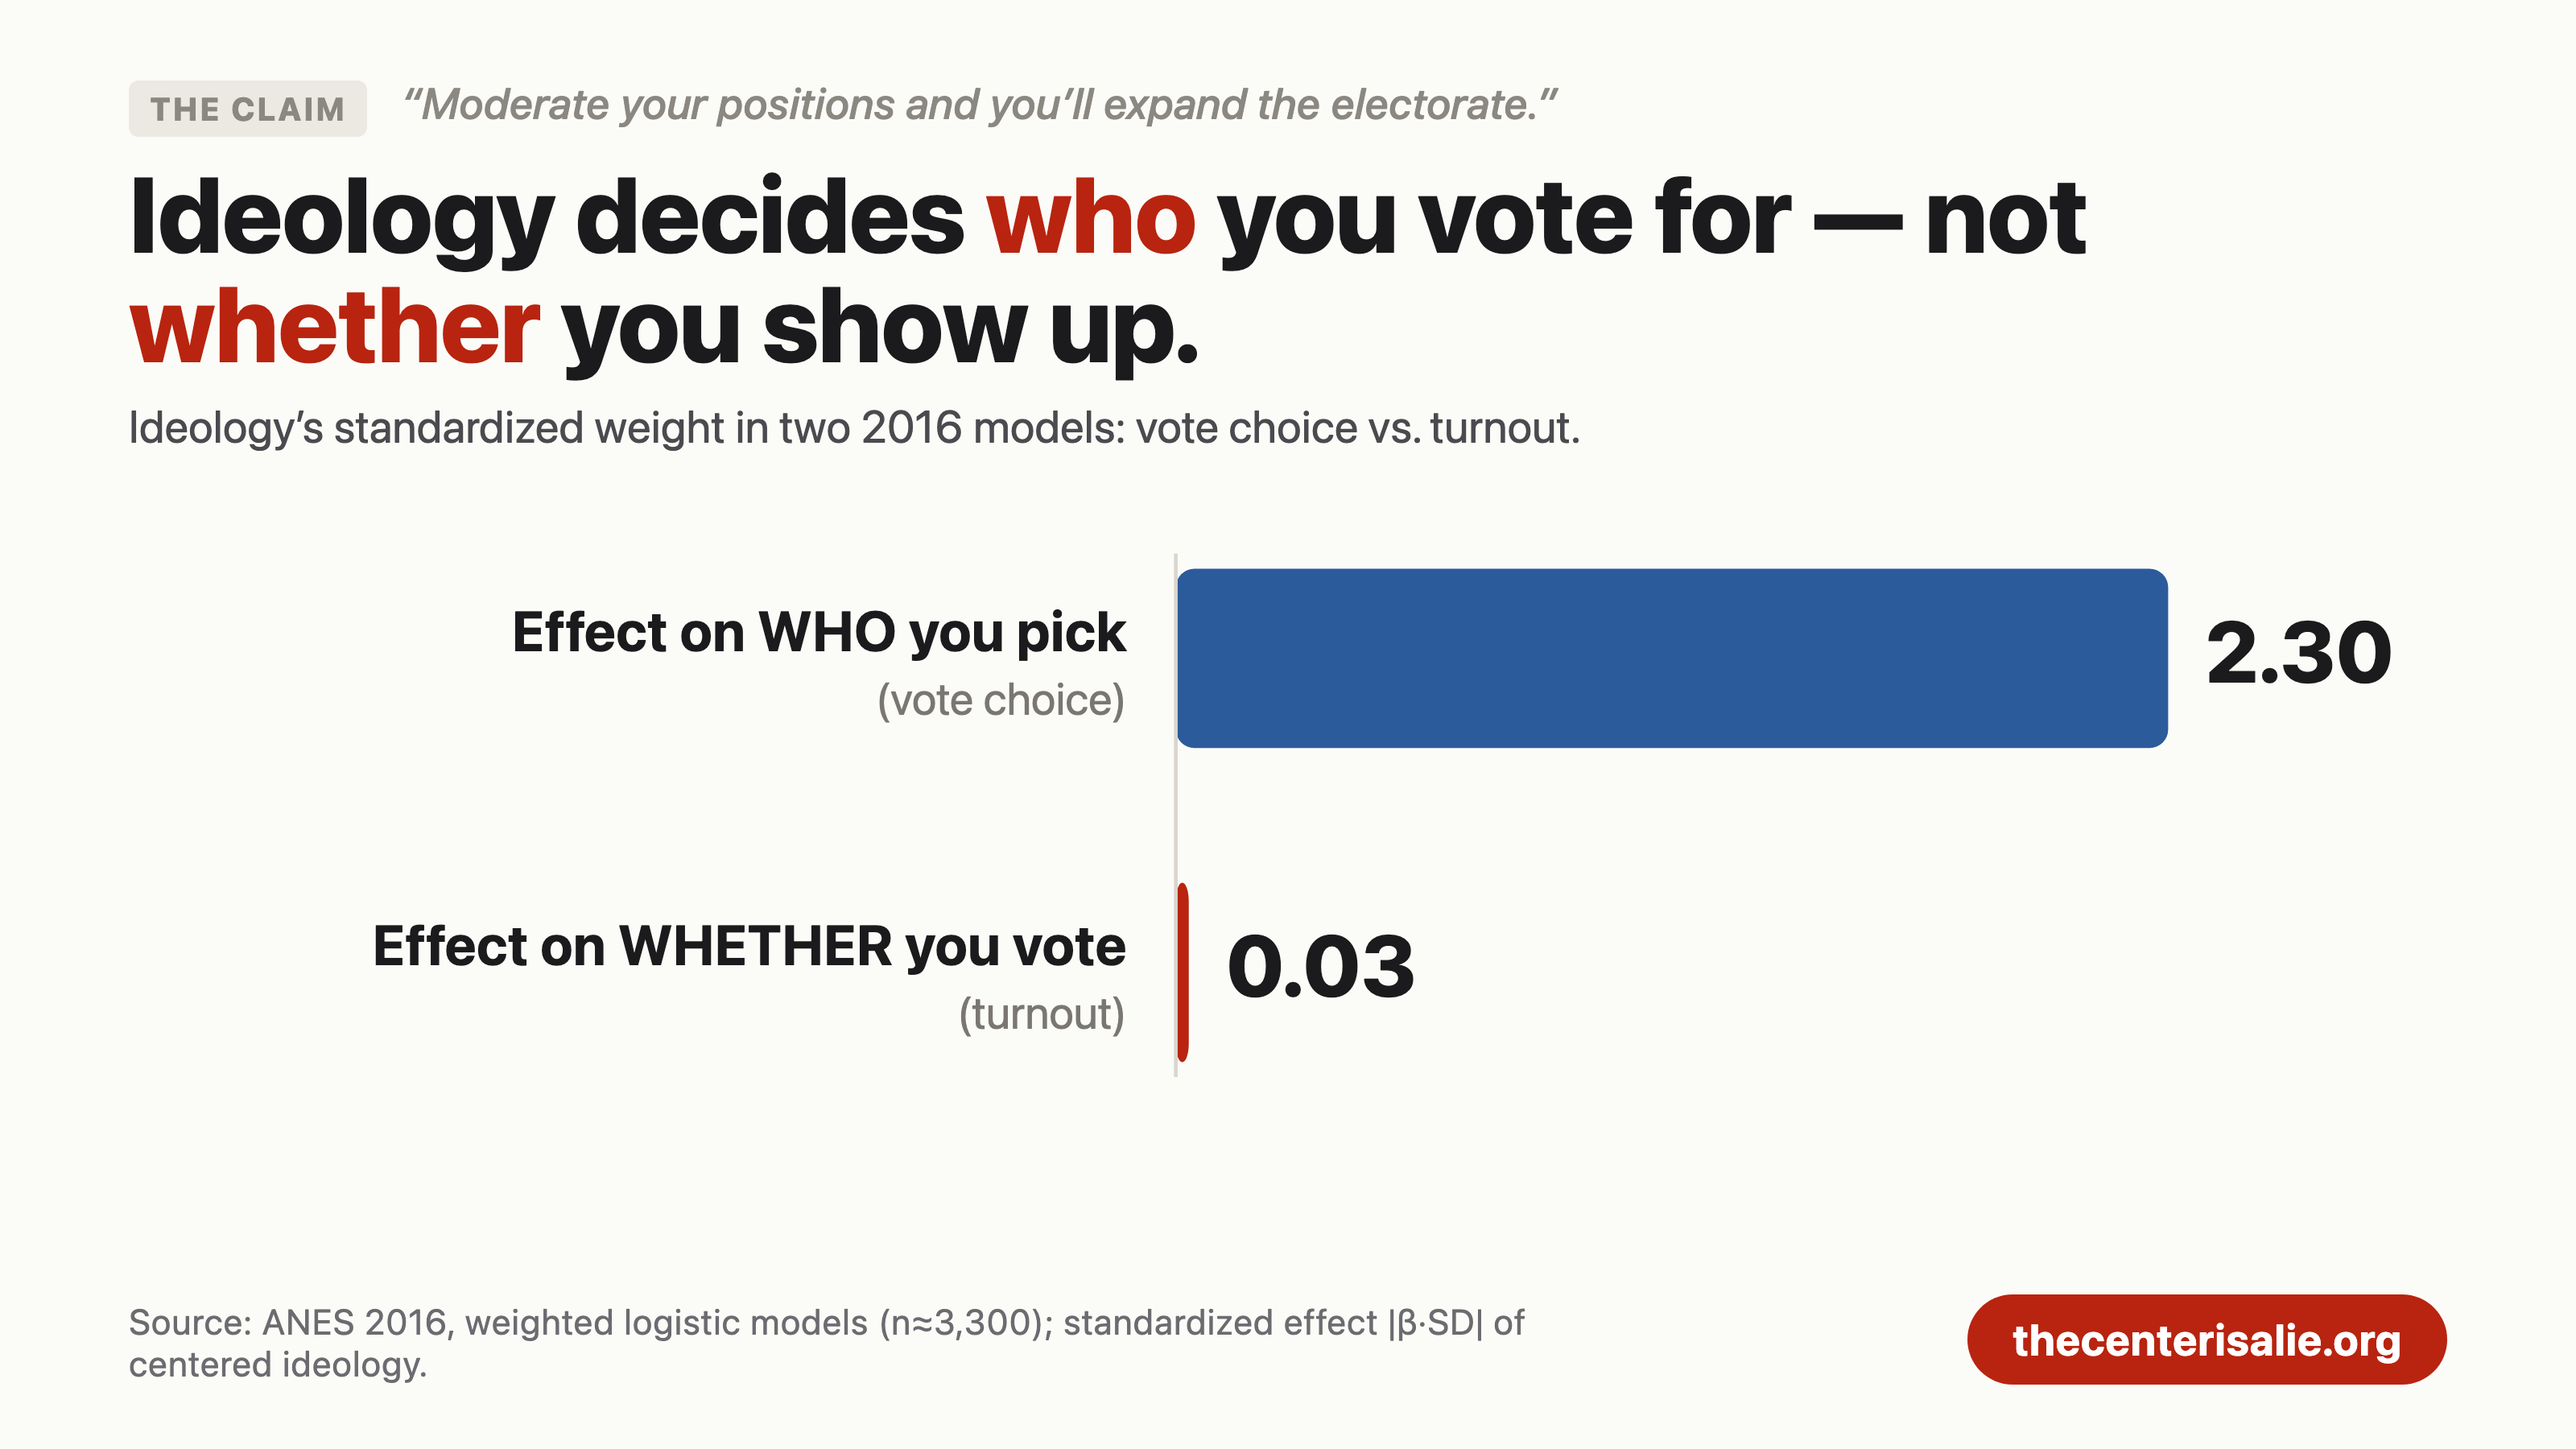
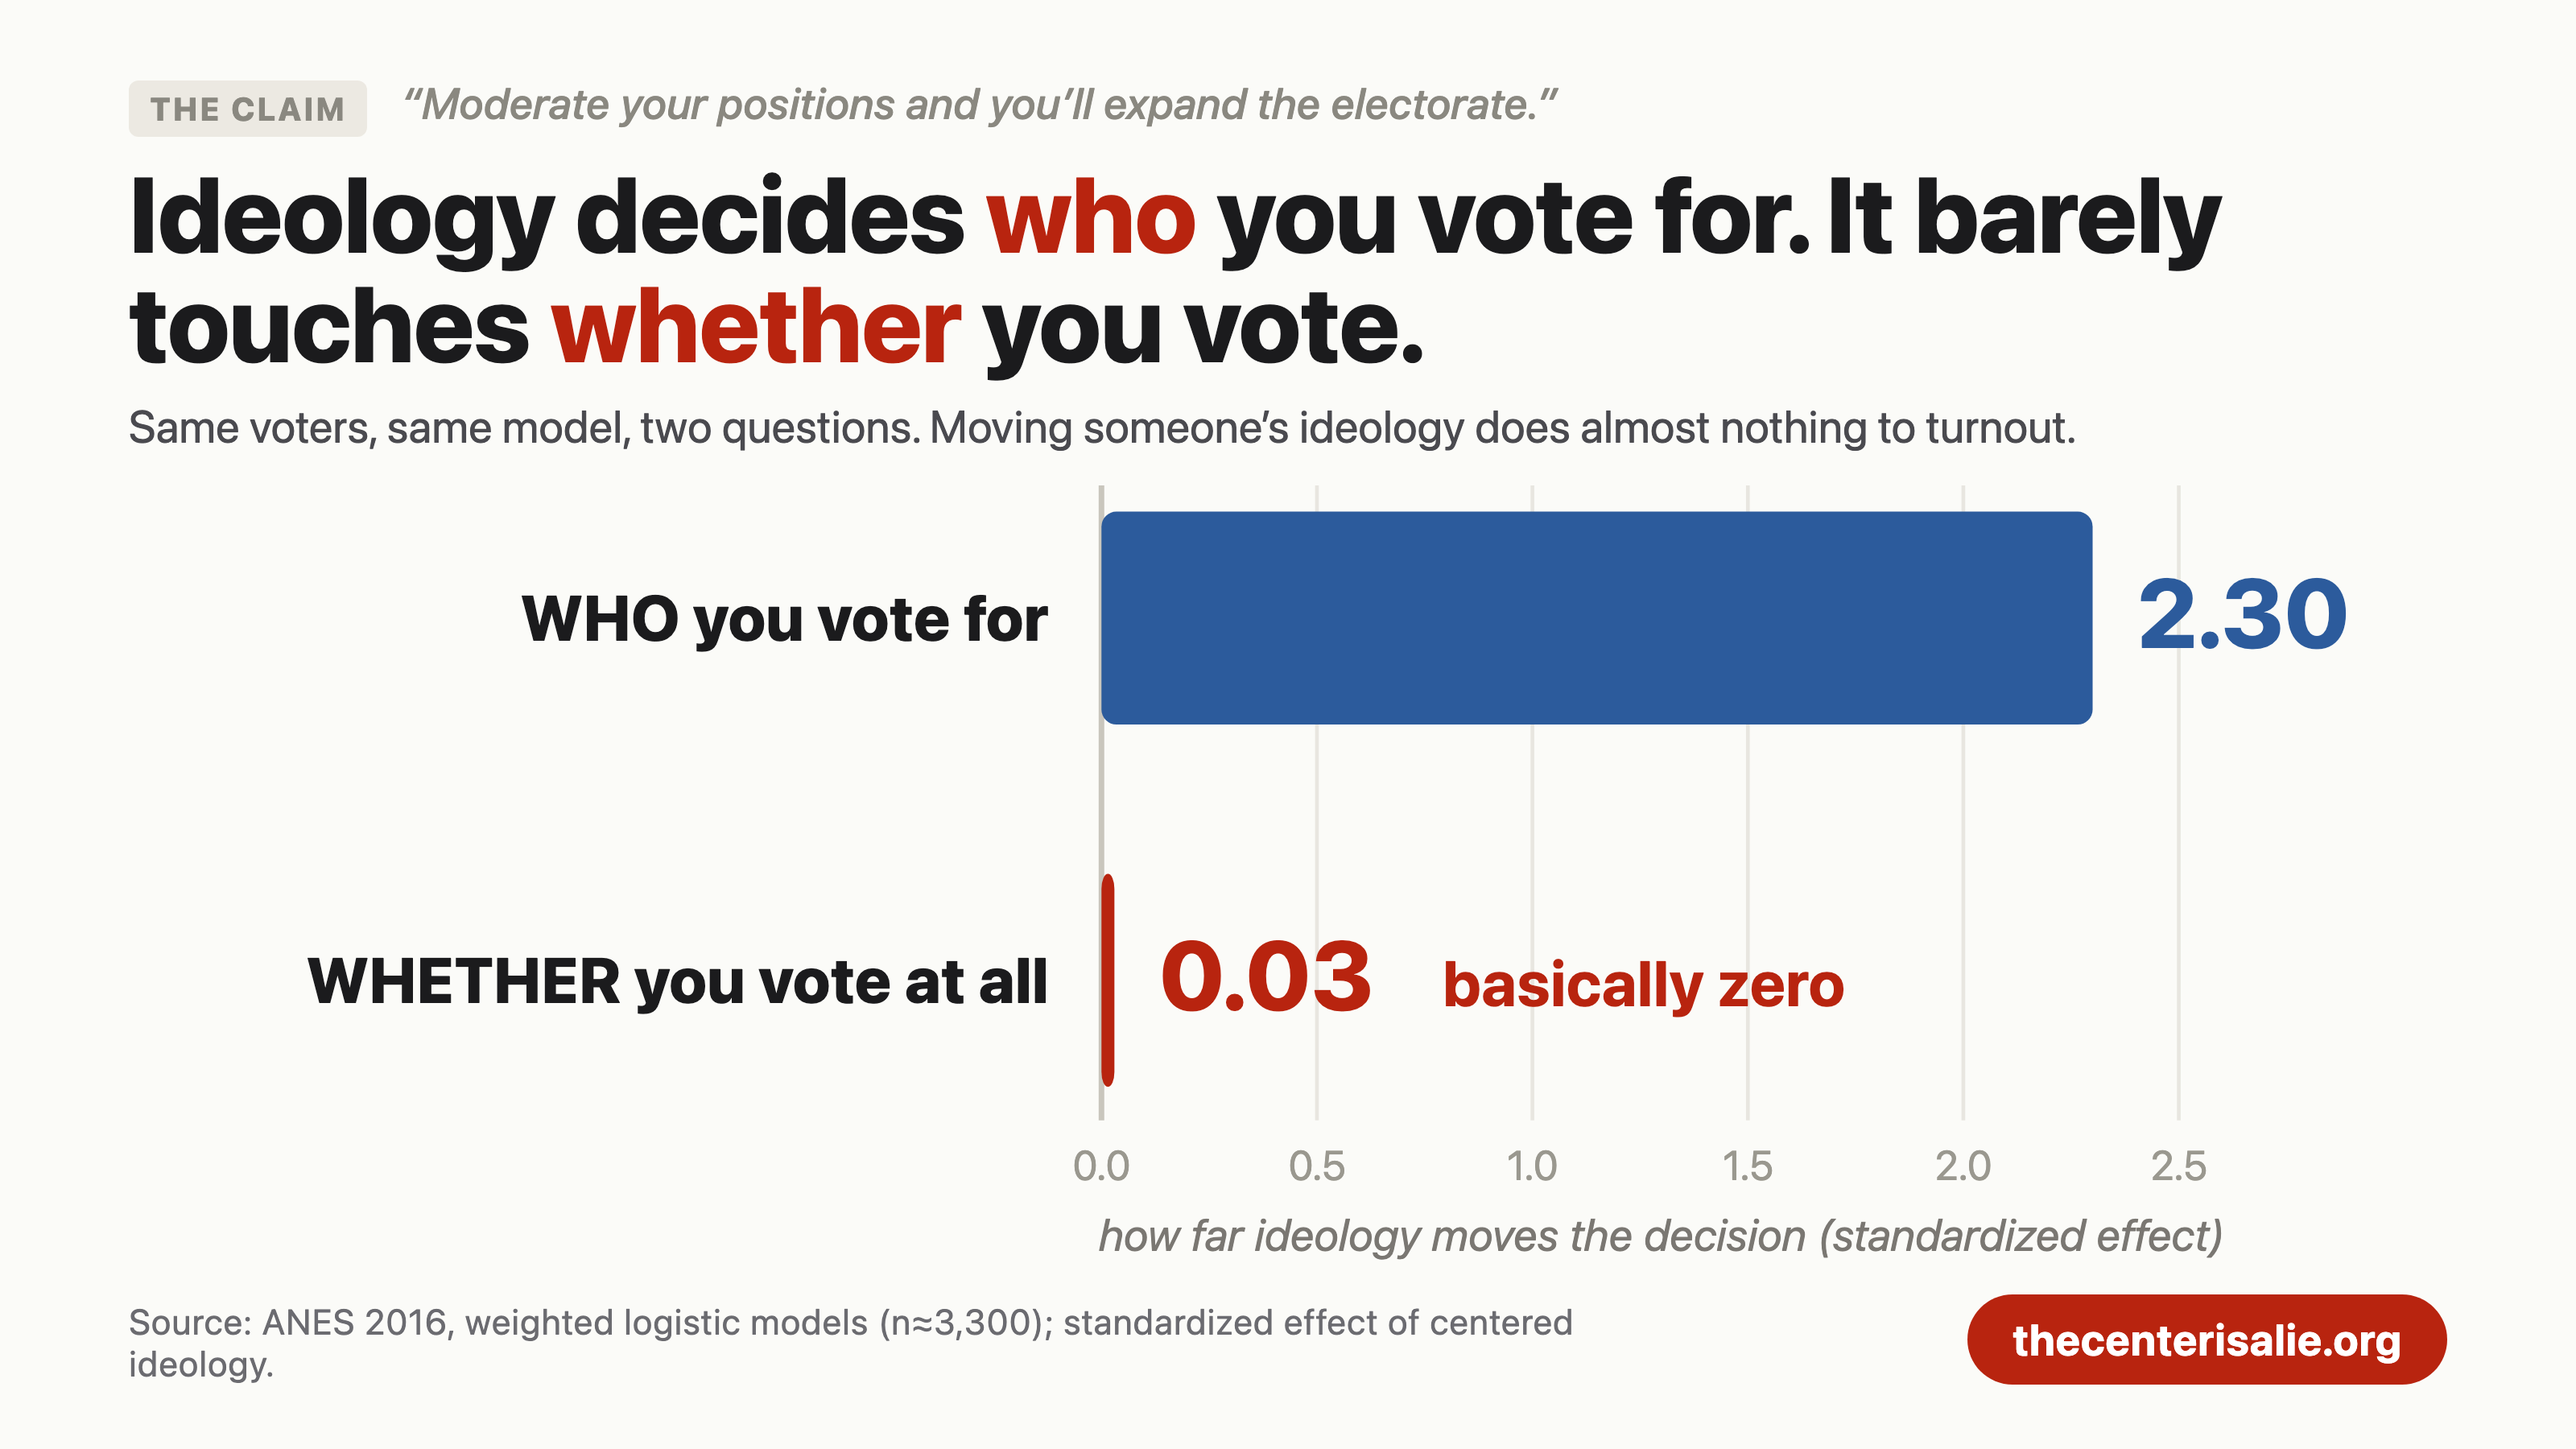
fix(og): honest alienated breakdown, turnout axis, geometry guard
- alienated: the 53/6 split omitted the 41% 'mixed' category defined in the
  methodology, so the bars summed to 59% and read as a hidden category.
  Show all three, add a percent axis, blunter title.
- turnout: add a real axis with a plain-language unit so 2.30 vs 0.03 are
  not naked decimals; put the visual weight on the near-zero result.
- render-charts: fail loudly on content clipped past the viewBox or >90px of
  dead space below the chart. Both have shipped silently before.

diff --git a/web/og-cards/chart-turnout.html b/web/og-cards/chart-turnout.html
@@ -3,14 +3,14 @@
 <body>
   <div class="chartcard">
     <div class="cc-claim"><span class="tag">The claim</span> &ldquo;Moderate your positions and you&rsquo;ll expand the electorate.&rdquo;</div>
-    <div class="cc-title">Ideology decides <span class="hl">who</span> you vote for &mdash; not <span class="hl">whether</span> you show up.</div>
-    <div class="cc-sub">Ideology&rsquo;s standardized weight in two 2016 models: vote choice vs. turnout.</div>
+    <div class="cc-title">Ideology decides <span class="hl">who</span> you vote for. It barely touches <span class="hl">whether</span> you vote.</div>
+    <div class="cc-sub">Same voters, same model, two questions. Moving someone&rsquo;s ideology does almost nothing to turnout.</div>
 
-    <div class="cc-chart"><svg id="to" viewBox="0 0 1240 380" role="img"
-      aria-label="Ideology's standardized effect: 2.30 on vote choice, 0.03 on turnout"></svg></div>
+    <div class="cc-chart"><svg id="to" viewBox="0 0 1240 449" role="img"
+      aria-label="Ideology's standardized effect is 2.30 on vote choice and 0.03 on turnout, roughly 70 times smaller"></svg></div>
 
     <div class="cc-foot">
-      <div class="cc-source">Source: ANES 2016, weighted logistic models (n&asymp;3,300); standardized effect |&beta;&middot;SD| of centered ideology.</div>
+      <div class="cc-source">Source: ANES 2016, weighted logistic models (n&asymp;3,300); standardized effect of centered ideology.</div>
       <div class="cc-btn">thecenterisalie.org</div>
     </div>
   </div>
@@ -19,20 +19,31 @@
     const NS = 'http://www.w3.org/2000/svg';
     const svg = document.getElementById('to');
     const el = (t, a) => { const n = document.createElementNS(NS, t); for (const k in a) n.setAttribute(k, a[k]); return n; };
+    const txt = (a, s) => { const t = el('text', a); t.textContent = s; svg.appendChild(t); return t; };
+
+    const X0 = 520, X1 = 1120, VMAX = 2.6, sc = (X1 - X0) / VMAX;
+    const barH = 114, step = 194, y0 = 30;
+    const axisBot = y0 + step + barH + 18;
+
+    // gridlines + ticks
+    for (let v = 0; v <= 2.5; v += 0.5) {
+      const gx = X0 + v * sc;
+      svg.appendChild(el('line', { x1: gx, y1: y0 - 14, x2: gx, y2: axisBot, stroke: v === 0 ? '#c9c6bd' : '#e8e6e0', 'stroke-width': v === 0 ? 3 : 2 }));
+      txt({ x: gx, y: axisBot + 32, 'text-anchor': 'middle', fill: '#9a988f', 'font-size': 22 }, v.toFixed(1));
+    }
+    txt({ x: (X0 + X1) / 2, y: axisBot + 70, 'text-anchor': 'middle', fill: '#7a7772', 'font-size': 24, 'font-style': 'italic' }, 'how far ideology moves the decision (standardized effect)');
+
     const rows = [
-      { lab: 'Effect on WHO you pick', sub: '(vote choice)', v: 2.30 },
-      { lab: 'Effect on WHETHER you vote', sub: '(turnout)', v: 0.03 },
+      { lab: 'WHO you vote for', v: 2.30, col: '#2c5b9c', note: null },
+      { lab: 'WHETHER you vote at all', v: 0.03, col: '#b8240f', note: 'basically zero' },
     ];
-    const X0 = 560, X1 = 1160, VMAX = 2.6, sc = (X1 - X0) / VMAX;
-    const barH = 96, step = 168, y0 = 26;
     rows.forEach((r, i) => {
       const yTop = y0 + i * step, mid = yTop + barH / 2;
-      const l1 = el('text', { x: X0 - 26, y: mid - 4, 'text-anchor': 'end', fill: '#1b1b1d', 'font-size': 30, 'font-weight': 700 }); l1.textContent = r.lab; svg.appendChild(l1);
-      const l2 = el('text', { x: X0 - 26, y: mid + 30, 'text-anchor': 'end', fill: '#7a7772', 'font-size': 24 }); l2.textContent = r.sub; svg.appendChild(l2);
-      const w = Math.max(r.v * sc, 5);
-      svg.appendChild(el('rect', { x: X0, y: yTop, width: w, height: barH, rx: 10, fill: i === 0 ? '#2c5b9c' : '#b8240f' }));
-      const val = el('text', { x: X0 + w + 20, y: mid + 13, fill: '#1b1b1d', 'font-size': 46, 'font-weight': 800 }); val.textContent = r.v.toFixed(2); svg.appendChild(val);
+      txt({ x: X0 - 28, y: mid + 12, 'text-anchor': 'end', fill: '#1b1b1d', 'font-size': 34, 'font-weight': 800 }, r.lab);
+      const w = Math.max(r.v * sc, 6);
+      svg.appendChild(el('rect', { x: X0, y: yTop, width: w, height: barH, rx: 8, fill: r.col }));
+      txt({ x: X0 + w + 24, y: mid + 16, fill: r.col, 'font-size': 52, 'font-weight': 800 }, r.v.toFixed(2));
+      if (r.note) txt({ x: X0 + w + 24 + 152, y: mid + 14, fill: '#b8240f', 'font-size': 34, 'font-weight': 700 }, r.note);
     });
-    svg.appendChild(el('line', { x1: X0, y1: y0 - 8, x2: X0, y2: y0 + step + barH + 8, stroke: '#d9d6cd', 'stroke-width': 2 }));
   </script>
 </body></html>

diff --git a/web/og-cards/chart-alienated.html b/web/og-cards/chart-alienated.html
@@ -3,14 +3,14 @@
 <body>
   <div class="chartcard">
     <div class="cc-claim"><span class="tag">The claim</span> &ldquo;Non-voters are just content, or too lazy to show up.&rdquo;</div>
-    <div class="cc-title">Most no-shows aren&rsquo;t content &mdash; they&rsquo;re <span class="hl">alienated</span>.</div>
-    <div class="cc-sub">Low-engagement non-voters by outlook: &ldquo;the system doesn&rsquo;t respond to me&rdquo; vs. &ldquo;things are basically fine.&rdquo;</div>
+    <div class="cc-title">Non-voters aren&rsquo;t content. They&rsquo;ve <span class="hl">given up</span>.</div>
+    <div class="cc-sub">Low-engagement non-voters in 2024, by outlook. The &ldquo;things are fine&rdquo; type has nearly vanished.</div>
 
-    <div class="cc-chart"><svg id="al" viewBox="0 0 1240 380" role="img"
-      aria-label="Of low-engagement non-voters in 2024: 53% alienated, 6% complacent"></svg></div>
+    <div class="cc-chart"><svg id="al" viewBox="0 0 1240 449" role="img"
+      aria-label="Of low-engagement non-voters in 2024: 53% alienated, 41% mixed, 6% complacent"></svg></div>
 
     <div class="cc-foot">
-      <div class="cc-source">Source: ANES Cumulative File; low-engagement non-voters by grievance and efficacy; weighted. Alienated share: 36% (2016) &rarr; 53% (2024).</div>
+      <div class="cc-source">Source: ANES Cumulative File, 2024; low-engagement non-voters classified by grievance and efficacy; weighted.</div>
       <div class="cc-btn">thecenterisalie.org</div>
     </div>
   </div>
@@ -19,20 +19,29 @@
     const NS = 'http://www.w3.org/2000/svg';
     const svg = document.getElementById('al');
     const el = (t, a) => { const n = document.createElementNS(NS, t); for (const k in a) n.setAttribute(k, a[k]); return n; };
+    const txt = (a, s) => { const t = el('text', a); t.textContent = s; svg.appendChild(t); return t; };
+
     const rows = [
-      { name: 'Alienated', sub: '“my vote doesn’t fix anything”', v: 53, hot: true },
-      { name: 'Complacent', sub: '“things are basically fine”', v: 6 },
+      { name: 'Alienated', sub: '“my vote doesn’t fix anything”', v: 53, col: '#b8240f', hot: true },
+      { name: 'Mixed', sub: 'neither clearly', v: 41, col: '#b0ada4' },
+      { name: 'Complacent', sub: '“things are basically fine”', v: 6, col: '#b0ada4' },
     ];
-    const X0 = 590, X1 = 1120, VMAX = 60, sc = (X1 - X0) / VMAX;
-    const barH = 88, step = 148, y0 = 22;
+    const X0 = 560, X1 = 1105, VMAX = 60, sc = (X1 - X0) / VMAX;
+    const barH = 96, step = 138, y0 = 24;
+    const axisBot = y0 + 2 * step + barH + 14;
+
+    for (let v = 0; v <= 60; v += 20) {
+      const gx = X0 + v * sc;
+      svg.appendChild(el('line', { x1: gx, y1: y0 - 12, x2: gx, y2: axisBot, stroke: v === 0 ? '#c9c6bd' : '#e8e6e0', 'stroke-width': v === 0 ? 3 : 2 }));
+      txt({ x: gx, y: axisBot + 32, 'text-anchor': 'middle', fill: '#9a988f', 'font-size': 22 }, v + '%');
+    }
     rows.forEach((r, i) => {
       const yTop = y0 + i * step, mid = yTop + barH / 2;
-      const l1 = el('text', { x: X0 - 26, y: mid - 2, 'text-anchor': 'end', fill: r.hot ? '#b8240f' : '#1b1b1d', 'font-size': 32, 'font-weight': 800 }); l1.textContent = r.name; svg.appendChild(l1);
-      const l2 = el('text', { x: X0 - 26, y: mid + 30, 'text-anchor': 'end', fill: '#7a7772', 'font-size': 22 }); l2.textContent = r.sub; svg.appendChild(l2);
-      const w = r.v * sc;
-      svg.appendChild(el('rect', { x: X0, y: yTop, width: w, height: barH, rx: 9, fill: r.hot ? '#b8240f' : '#b0ada4' }));
-      const val = el('text', { x: X0 + w + 20, y: mid + 15, fill: '#1b1b1d', 'font-size': 46, 'font-weight': 800 }); val.textContent = r.v + '%'; svg.appendChild(val);
+      txt({ x: X0 - 26, y: mid - 2, 'text-anchor': 'end', fill: r.hot ? '#b8240f' : '#1b1b1d', 'font-size': 33, 'font-weight': 800 }, r.name);
+      txt({ x: X0 - 26, y: mid + 32, 'text-anchor': 'end', fill: '#7a7772', 'font-size': 23 }, r.sub);
+      const w = Math.max(r.v * sc, 5);
+      svg.appendChild(el('rect', { x: X0, y: yTop, width: w, height: barH, rx: 8, fill: r.col }));
+      txt({ x: X0 + w + 20, y: mid + 16, fill: r.hot ? '#b8240f' : '#1b1b1d', 'font-size': 46, 'font-weight': 800 }, r.v + '%');
     });
-    const cap = el('text', { x: X0, y: y0 + 2 * step + 24, 'text-anchor': 'start', fill: '#6b6b70', 'font-size': 23 }); cap.textContent = 'of low-engagement non-voters, 2024'; svg.appendChild(cap);
   </script>
 </body></html>
